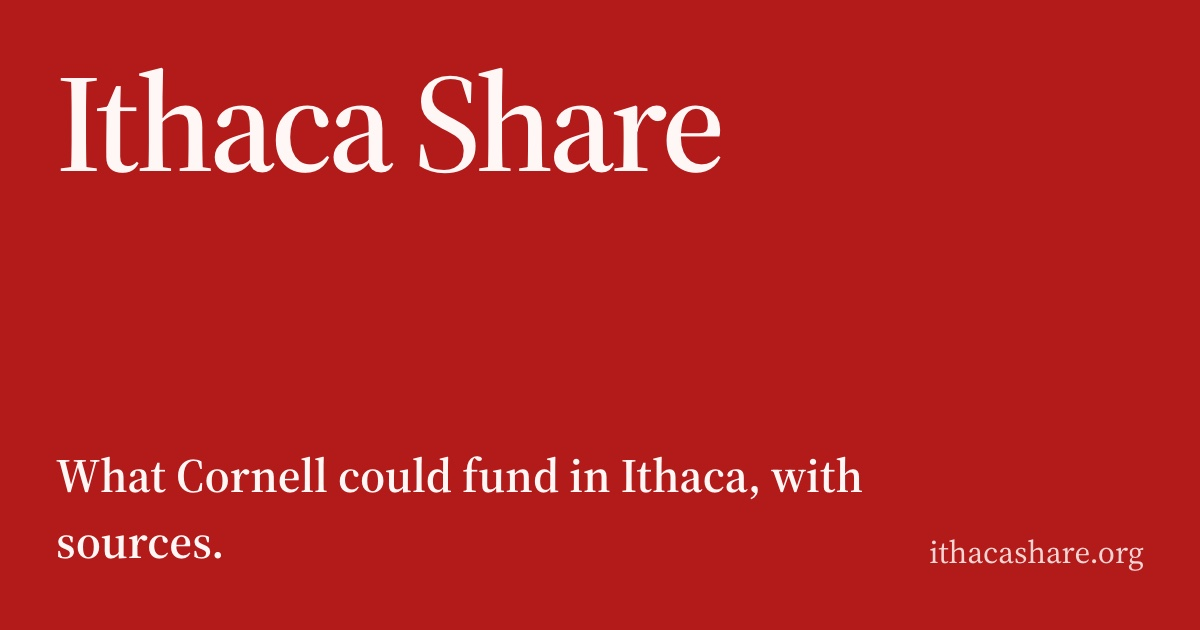
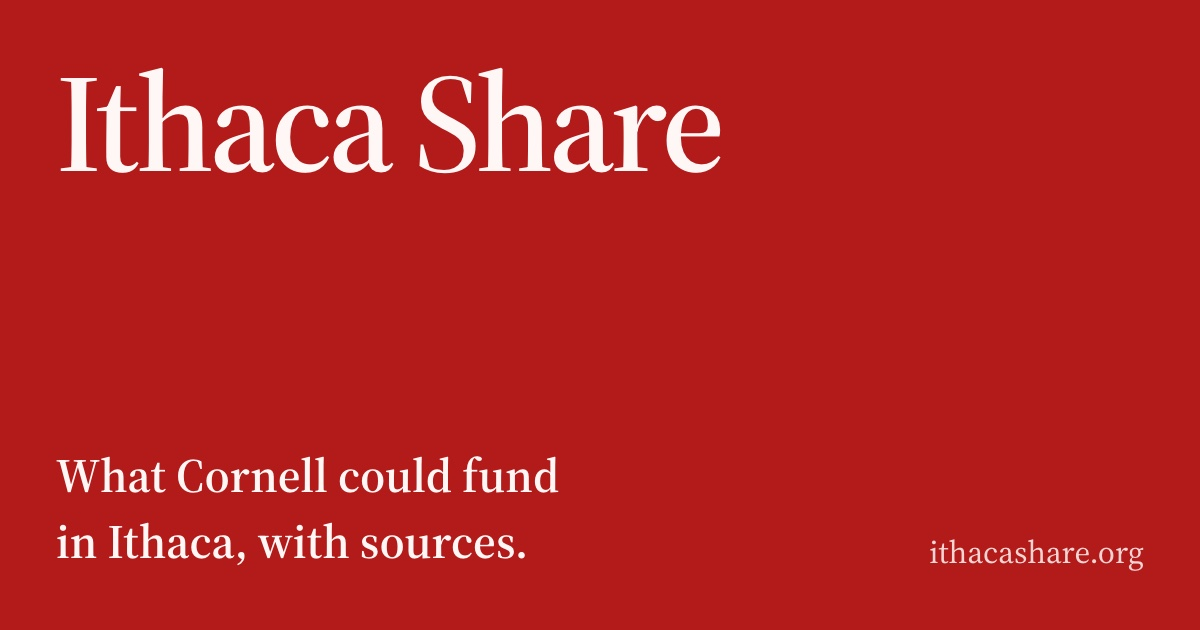
Balance headings, avoid orphans, keep amounts with their units

Changed region(s): [[0.0308, 0.8143, 0.4317, 0.9048], [0.4625, 0.7238, 0.74, 0.7841]]

diff --git a/public/wastewater/index.html b/public/wastewater/index.html
@@ -32,18 +32,18 @@
       <figure class="poster" style="--pay-ratio: sqrt(439000000 / 5125000)">
         <div>
           <h1>
-            <a href="https://statements.cornell.edu/2025/20251028-university-endowment.cfm">$439 million in a year.</a><br>
+            <a href="https://statements.cornell.edu/2025/20251028-university-endowment.cfm">$439&nbsp;million in a year.</a><br>
             <a href="https://www.ehs.cornell.edu/environmental-compliance/water-management/municipal-sanitary-sewer">No wastewater plant.</a>
           </h1>
-          <p class="poster-sub">Paid out by Cornell’s $11.8 billion endowment in fiscal 2025.</p>
+          <p class="poster-sub">Paid out by Cornell’s $11.8&nbsp;billion endowment in fiscal&nbsp;2025.</p>
         </div>
         <div class="poster-foot">
           <div class="poster-dot" aria-hidden="true"></div>
-          <p>This square, at the same scale, is the $5.1 million a year Cornell pays Ithaca’s city, town, and schools.</p>
+          <p>This square, at the same scale, is the $5.1&nbsp;million a year Cornell pays Ithaca’s city, town, and schools.</p>
         </div>
         <figcaption class="sr-only">
-          A red square for the $439 million Cornell’s endowment paid out in fiscal 2025, and a black
-          square about 1/86 of its area for the $5.1 million a year Cornell pays Ithaca’s city, town,
+          A red square for the $439&nbsp;million Cornell’s endowment paid out in fiscal&nbsp;2025, and a black
+          square about 1/86 of its area for the $5.1&nbsp;million a year Cornell pays Ithaca’s city, town,
           and schools.
         </figcaption>
       </figure>
@@ -70,13 +70,13 @@
         <p>
           The City of Ithaca, the Town of Ithaca, and the Town of Dryden own the plant. In 2025, local
           officials
-          <a class="link" href="https://ithacavoice.org/2025/08/local-officials-planned-to-invest-100m-into-ithacas-aging-wastewater-plant-one-meeting-with-state-regulators-may-have-doubled-that/" target="_blank" rel="noreferrer">planned to invest $100 million</a>
-          in it, and state regulators may double that. Engineering work approved in October 2026
-          supports about $37.8 million of planned improvements. The unfunded share is not published.
+          <a class="link" href="https://ithacavoice.org/2025/08/local-officials-planned-to-invest-100m-into-ithacas-aging-wastewater-plant-one-meeting-with-state-regulators-may-have-doubled-that/" target="_blank" rel="noreferrer">planned to invest $100&nbsp;million</a>
+          in it, and state regulators may double that. Engineering work approved in October&nbsp;2026
+          supports about $37.8&nbsp;million of planned improvements. The unfunded share is not published.
         </p>
         <p>
-          Common Council scheduled the capital plan for October 20, 2026, discussion for October 28, and
-          the budget vote for November 4.
+          Common Council scheduled the capital plan for October&nbsp;20, 2026, discussion for October&nbsp;28, and
+          the budget vote for November&nbsp;4.
         </p>
         <p>
           <a class="link" href="https://www.cityofithaca.org/675/IAWWTF-Treatment-Process">The city’s description of the plant.</a>
@@ -90,14 +90,14 @@
       <section>
         <h2>Already agreed</h2>
         <ul class="plain">
-          <li>City of Ithaca: $4 million a year, adjusted for inflation, through June 2039.</li>
+          <li>City of Ithaca: $4&nbsp;million a year, adjusted for inflation, through June&nbsp;2039.</li>
           <li>Ithaca City School District: $700,000 in 2025-26, rising to $874,000 by 2030-31.</li>
-          <li>Town of Ithaca: $425,000 a year through June 2034.</li>
+          <li>Town of Ithaca: $425,000 a year through June&nbsp;2034.</li>
         </ul>
-        <p>Together, about $5.1 million, counting the city’s base before inflation.</p>
+        <p>Together, about $5.1&nbsp;million, counting the city’s base before inflation.</p>
         <p>
           Cornell counts these within
-          <a class="link" href="https://news.cornell.edu/stories/2024/06/cornell-contribute-425k-annually-town-ithaca" target="_blank" rel="noreferrer">more than $30 million a year</a>
+          <a class="link" href="https://news.cornell.edu/stories/2024/06/cornell-contribute-425k-annually-town-ithaca" target="_blank" rel="noreferrer">more than $30&nbsp;million a year</a>
           it says goes to community priorities. That total also includes TCAT bus service, a housing
           fund, local nonprofits, and services on its own campus such as public safety and snow removal.
         </p>
@@ -110,9 +110,9 @@
             <tr><th>University</th><th>Local payment</th><th>Endowment</th><th>% of endowment</th></tr>
           </thead>
           <tbody>
-            <tr><td>Yale</td><td>Nearly $30 million (2026-27)</td><td>$44.1 billion</td><td>0.07%</td></tr>
-            <tr><td>Cornell</td><td>$5.1 million</td><td>$11.8 billion</td><td>0.04%</td></tr>
-            <tr><td>Princeton</td><td>$5.9 million (2025)</td><td>$36.4 billion</td><td>0.02%</td></tr>
+            <tr><td>Yale</td><td>Nearly $30&nbsp;million (2026-27)</td><td>$44.1&nbsp;billion</td><td>0.07%</td></tr>
+            <tr><td>Cornell</td><td>$5.1&nbsp;million</td><td>$11.8&nbsp;billion</td><td>0.04%</td></tr>
+            <tr><td>Princeton</td><td>$5.9&nbsp;million (2025)</td><td>$36.4&nbsp;billion</td><td>0.02%</td></tr>
           </tbody>
         </table>
       </section>
@@ -121,23 +121,23 @@
         <h2>Other ways to measure it</h2>
         <p>
           The endowment’s
-          <a class="link" href="https://statements.cornell.edu/2025/20251028-university-endowment.cfm" target="_blank" rel="noreferrer">$439 million payout</a>
-          in fiscal 2025 went to aid, research, salaries, and facilities. It is about 86 times the
-          $5.1 million.
+          <a class="link" href="https://statements.cornell.edu/2025/20251028-university-endowment.cfm" target="_blank" rel="noreferrer">$439&nbsp;million payout</a>
+          in fiscal&nbsp;2025 went to aid, research, salaries, and facilities. It is about 86 times the
+          $5.1&nbsp;million.
         </p>
         <p>
           Most of the endowment is restricted by donors. Cornell’s 2025 financial report lists
-          <a class="link" href="https://finance.cornell.edu/sites/default/files/cornell-financial-report-FY2025.pdf" target="_blank" rel="noreferrer">$1.8 billion of it with no donor restrictions</a>.
+          <a class="link" href="https://finance.cornell.edu/sites/default/files/cornell-financial-report-FY2025.pdf" target="_blank" rel="noreferrer">$1.8&nbsp;billion of it with no donor restrictions</a>.
         </p>
         <p>
-          Cornell’s tax-exempt property in the city was assessed at $2.7 billion on the 2022 roll. At
-          the 2023 city rate it would owe about $32.5 million a year. Because taxing it would lower the
+          Cornell’s tax-exempt property in the city was assessed at $2.7&nbsp;billion on the 2022 roll. At
+          the 2023 city rate it would owe about $32.5&nbsp;million a year. Because taxing it would lower the
           rate for everyone, the county’s assessment director put the
-          <a class="link" href="https://theithacan.org/50275/news/50275/" target="_blank" rel="noreferrer">realistic figure at about $15.5 million</a>.
+          <a class="link" href="https://theithacan.org/50275/news/50275/" target="_blank" rel="noreferrer">realistic figure at about $15.5&nbsp;million</a>.
         </p>
         <p>
-          Separately, Cornell closed a fundraising campaign in June 2026 at
-          <a class="link" href="https://news.cornell.edu/stories/2026/08/campaign-closes-record-support-students-and-research" target="_blank" rel="noreferrer">nearly $6.8 billion</a>.
+          Separately, Cornell closed a fundraising campaign in June&nbsp;2026 at
+          <a class="link" href="https://news.cornell.edu/stories/2026/08/campaign-closes-record-support-students-and-research" target="_blank" rel="noreferrer">nearly $6.8&nbsp;billion</a>.
         </p>
       </section>
 
@@ -146,9 +146,9 @@
         <dl class="qa">
           <dt>Doesn’t Cornell already pay for the sewer?</dt>
           <dd>
-            It paid <a class="link" href="https://news.cornell.edu/stories/2024/04/snapshot-highlights-universitys-role-local-economy" target="_blank" rel="noreferrer">$2.6 million in water, sewer, and stormwater fees</a>
-            in the year ending June 30, 2023. Those fees are separate from the
-            <a class="link" href="https://www.fingerlakes1.com/2026/10/12/ithaca-approves-elected-official-raises-cornell-permit-moratorium-and-infrastructure-funding/" target="_blank" rel="noreferrer">$37.8 million in planned improvements</a>.
+            It paid <a class="link" href="https://news.cornell.edu/stories/2024/04/snapshot-highlights-universitys-role-local-economy" target="_blank" rel="noreferrer">$2.6&nbsp;million in water, sewer, and stormwater fees</a>
+            in the year ending June&nbsp;30, 2023. Those fees are separate from the
+            <a class="link" href="https://www.fingerlakes1.com/2026/10/12/ithaca-approves-elected-official-raises-cornell-permit-moratorium-and-infrastructure-funding/" target="_blank" rel="noreferrer">$37.8&nbsp;million in planned improvements</a>.
           </dd>
 
           <dt>Would the money go into the city budget?</dt>
@@ -162,10 +162,10 @@
       <section>
         <h2>Method</h2>
         <p>
-          The square compares one year to one year: the endowment’s fiscal 2025 payout and Cornell’s
+          The square compares one year to one year: the endowment’s fiscal&nbsp;2025 payout and Cornell’s
           voluntary payments to the City of Ithaca, the Town of Ithaca, and the Ithaca City School
           District, using the city’s base before inflation. The black square’s area is to scale. Fees,
-          campus services, and Cornell’s other community spending are not in the $5.1 million.
+          campus services, and Cornell’s other community spending are not in the $5.1&nbsp;million.
         </p>
       </section>
 
@@ -174,55 +174,55 @@
           <summary><h2>Sources (19)</h2></summary>
         <ul class="plain sources">
           <li>
-            <p>Endowment of $11.8 billion at June 30, 2025</p>
-            <a class="link" href="https://statements.cornell.edu/2025/20251028-university-endowment.cfm" target="_blank" rel="noreferrer">Cornell University statement, October 28, 2025</a> · <a class="archived" href="https://web.archive.org/web/20261003115607/https://statements.cornell.edu/2025/20251028-university-endowment.cfm" target="_blank" rel="noreferrer">archived</a>
+            <p>Endowment of $11.8&nbsp;billion at June&nbsp;30, 2025</p>
+            <a class="link" href="https://statements.cornell.edu/2025/20251028-university-endowment.cfm" target="_blank" rel="noreferrer">Cornell University statement, October&nbsp;28, 2025</a> · <a class="archived" href="https://web.archive.org/web/20261003115607/https://statements.cornell.edu/2025/20251028-university-endowment.cfm" target="_blank" rel="noreferrer">archived</a>
           </li>
           <li>
-            <p>$4 million a year to the City of Ithaca, adjusted for inflation, through June 2039</p>
-            <a class="link" href="https://news.cornell.edu/stories/2023/10/cornell-reaches-landmark-agreement-city-ithaca" target="_blank" rel="noreferrer">Cornell Chronicle, October 13, 2023</a> · <a class="archived" href="https://web.archive.org/web/20261017010450/https://news.cornell.edu/stories/2023/10/cornell-reaches-landmark-agreement-city-ithaca" target="_blank" rel="noreferrer">archived</a>
+            <p>$4&nbsp;million a year to the City of Ithaca, adjusted for inflation, through June&nbsp;2039</p>
+            <a class="link" href="https://news.cornell.edu/stories/2023/10/cornell-reaches-landmark-agreement-city-ithaca" target="_blank" rel="noreferrer">Cornell Chronicle, October&nbsp;13, 2023</a> · <a class="archived" href="https://web.archive.org/web/20261017010450/https://news.cornell.edu/stories/2023/10/cornell-reaches-landmark-agreement-city-ithaca" target="_blank" rel="noreferrer">archived</a>
           </li>
           <li>
-            <p>$425,000 a year to the Town of Ithaca through June 2034</p>
-            <a class="link" href="https://news.cornell.edu/stories/2024/06/cornell-contribute-425k-annually-town-ithaca" target="_blank" rel="noreferrer">Cornell Chronicle, June 25, 2024</a> · <a class="archived" href="https://web.archive.org/web/20261017010630/https://news.cornell.edu/stories/2024/06/cornell-contribute-425k-annually-town-ithaca" target="_blank" rel="noreferrer">archived</a>
+            <p>$425,000 a year to the Town of Ithaca through June&nbsp;2034</p>
+            <a class="link" href="https://news.cornell.edu/stories/2024/06/cornell-contribute-425k-annually-town-ithaca" target="_blank" rel="noreferrer">Cornell Chronicle, June&nbsp;25, 2024</a> · <a class="archived" href="https://web.archive.org/web/20261017010630/https://news.cornell.edu/stories/2024/06/cornell-contribute-425k-annually-town-ithaca" target="_blank" rel="noreferrer">archived</a>
           </li>
           <li>
             <p>$700,000 to the Ithaca City School District in 2025-26, rising to $874,000 by 2030-31</p>
             <a class="link" href="https://news.cornell.edu/stories/2026/01/cornell-increase-contribution-ithaca-schools" target="_blank" rel="noreferrer">Cornell Chronicle, January 22, 2026</a> · <a class="archived" href="https://web.archive.org/web/20261017010755/https://news.cornell.edu/stories/2026/01/cornell-increase-contribution-ithaca-schools" target="_blank" rel="noreferrer">archived</a>
           </li>
           <li>
-            <p>Endowment contributed $439 million to operations in fiscal 2025</p>
-            <a class="link" href="https://statements.cornell.edu/2025/20251028-university-endowment.cfm" target="_blank" rel="noreferrer">Cornell University statement, October 28, 2025</a> · <a class="archived" href="https://web.archive.org/web/20261003115607/https://statements.cornell.edu/2025/20251028-university-endowment.cfm" target="_blank" rel="noreferrer">archived</a>
+            <p>Endowment contributed $439&nbsp;million to operations in fiscal&nbsp;2025</p>
+            <a class="link" href="https://statements.cornell.edu/2025/20251028-university-endowment.cfm" target="_blank" rel="noreferrer">Cornell University statement, October&nbsp;28, 2025</a> · <a class="archived" href="https://web.archive.org/web/20261003115607/https://statements.cornell.edu/2025/20251028-university-endowment.cfm" target="_blank" rel="noreferrer">archived</a>
           </li>
           <li>
-            <p>$1,825,491 thousand of endowment funds without donor restrictions (funds functioning as endowment), June 30, 2025, Note 12</p>
-            <a class="link" href="https://finance.cornell.edu/sites/default/files/cornell-financial-report-FY2025.pdf" target="_blank" rel="noreferrer">Cornell University Consolidated Financial Statements, fiscal 2025</a> · <a class="archived" href="https://web.archive.org/web/20261017012711/https://finance.cornell.edu/sites/default/files/cornell-financial-report-FY2025.pdf" target="_blank" rel="noreferrer">archived</a>
+            <p>$1,825,491&nbsp;thousand of endowment funds without donor restrictions (funds functioning as endowment), June&nbsp;30, 2025, Note 12</p>
+            <a class="link" href="https://finance.cornell.edu/sites/default/files/cornell-financial-report-FY2025.pdf" target="_blank" rel="noreferrer">Cornell University Consolidated Financial Statements, fiscal&nbsp;2025</a> · <a class="archived" href="https://web.archive.org/web/20261017012711/https://finance.cornell.edu/sites/default/files/cornell-financial-report-FY2025.pdf" target="_blank" rel="noreferrer">archived</a>
           </li>
           <li>
-            <p>Cornell dedicates more than $30 million a year to community priorities, including its voluntary contributions</p>
-            <a class="link" href="https://news.cornell.edu/stories/2024/06/cornell-contribute-425k-annually-town-ithaca" target="_blank" rel="noreferrer">Cornell Chronicle, June 25, 2024</a> · <a class="archived" href="https://web.archive.org/web/20261017010630/https://news.cornell.edu/stories/2024/06/cornell-contribute-425k-annually-town-ithaca" target="_blank" rel="noreferrer">archived</a>
+            <p>Cornell dedicates more than $30&nbsp;million a year to community priorities, including its voluntary contributions</p>
+            <a class="link" href="https://news.cornell.edu/stories/2024/06/cornell-contribute-425k-annually-town-ithaca" target="_blank" rel="noreferrer">Cornell Chronicle, June&nbsp;25, 2024</a> · <a class="archived" href="https://web.archive.org/web/20261017010630/https://news.cornell.edu/stories/2024/06/cornell-contribute-425k-annually-town-ithaca" target="_blank" rel="noreferrer">archived</a>
           </li>
           <li>
-            <p>$2.7 billion in tax-exempt property on the 2022 assessment roll; about $32.5 million at the 2023 rate, or about $15.5 million with the rate adjusted</p>
-            <a class="link" href="https://theithacan.org/50275/news/50275/" target="_blank" rel="noreferrer">The Ithacan, October 4, 2023</a> · <a class="archived" href="https://web.archive.org/web/20261017012836/https://theithacan.org/50275/news/50275/" target="_blank" rel="noreferrer">archived</a>
+            <p>$2.7&nbsp;billion in tax-exempt property on the 2022 assessment roll; about $32.5&nbsp;million at the 2023 rate, or about $15.5&nbsp;million with the rate adjusted</p>
+            <a class="link" href="https://theithacan.org/50275/news/50275/" target="_blank" rel="noreferrer">The Ithacan, October&nbsp;4, 2023</a> · <a class="archived" href="https://web.archive.org/web/20261017012836/https://theithacan.org/50275/news/50275/" target="_blank" rel="noreferrer">archived</a>
           </li>
           <li>
-            <p>Fundraising campaign closed at nearly $6.8 billion</p>
+            <p>Fundraising campaign closed at nearly $6.8&nbsp;billion</p>
             <a class="link" href="https://news.cornell.edu/stories/2026/08/campaign-closes-record-support-students-and-research" target="_blank" rel="noreferrer">Cornell Chronicle, August 27, 2026</a> · <a class="archived" href="https://web.archive.org/web/20261017010908/https://news.cornell.edu/stories/2026/08/campaign-closes-record-support-students-and-research" target="_blank" rel="noreferrer">archived</a>
           </li>
           <li>
-            <p>Yale’s voluntary payment to New Haven is nearly $30 million in fiscal 2027, the last year of its 2021 plan</p>
+            <p>Yale’s voluntary payment to New Haven is nearly $30&nbsp;million in fiscal&nbsp;2027, the last year of its 2021 plan</p>
             <a class="link" href="https://news.yale.edu/2026/03/06/yale-and-new-haven-announce-new-commitment-and-plan-support-city-finances-advance-shared" target="_blank" rel="noreferrer">Yale News, March 6, 2026</a> · <a class="archived" href="https://web.archive.org/web/20261017011021/https://news.yale.edu/2026/03/06/yale-and-new-haven-announce-new-commitment-and-plan-support-city-finances-advance-shared" target="_blank" rel="noreferrer">archived</a>
           </li>
           <li>
-            <p>Yale endowment of $44.1 billion at June 30, 2025</p>
-            <a class="link" href="https://news.yale.edu/2025/10/24/yale-reports-investment-return-fiscal-2025" target="_blank" rel="noreferrer">Yale News, October 24, 2025</a> · <a class="archived" href="https://web.archive.org/web/20261017013013/https://news.yale.edu/2025/10/24/yale-reports-investment-return-fiscal-2025" target="_blank" rel="noreferrer">archived</a>
+            <p>Yale endowment of $44.1&nbsp;billion at June&nbsp;30, 2025</p>
+            <a class="link" href="https://news.yale.edu/2025/10/24/yale-reports-investment-return-fiscal-2025" target="_blank" rel="noreferrer">Yale News, October&nbsp;24, 2025</a> · <a class="archived" href="https://web.archive.org/web/20261017013013/https://news.yale.edu/2025/10/24/yale-reports-investment-return-fiscal-2025" target="_blank" rel="noreferrer">archived</a>
           </li>
           <li>
-            <p>Princeton endowment of $36.4 billion at June 30, 2025</p>
+            <p>Princeton endowment of $36.4&nbsp;billion at June&nbsp;30, 2025</p>
             <a class="link" href="https://paw.princeton.edu/article/princeton-endowment-earns-11-return-reaches-364-billion" target="_blank" rel="noreferrer">Princeton Alumni Weekly</a> · <a class="archived" href="https://web.archive.org/web/20261017013209/https://paw.princeton.edu/article/princeton-endowment-earns-11-return-reaches-364-billion" target="_blank" rel="noreferrer">archived</a>
           </li>
           <li>
-            <p>Princeton paid the Municipality of Princeton $5.9 million in 2025</p>
+            <p>Princeton paid the Municipality of Princeton $5.9&nbsp;million in 2025</p>
             <a class="link" href="https://www.princeton.edu/news/2026/03/26/university-contributions-princeton-municipality-2025-summary" target="_blank" rel="noreferrer">Princeton University, March 26, 2026</a> · <a class="archived" href="https://web.archive.org/web/20261002124916/https://www.princeton.edu/news/2026/03/26/university-contributions-princeton-municipality-2025-summary" target="_blank" rel="noreferrer">archived</a>
           </li>
           <li>
@@ -230,20 +230,20 @@
             <a class="link" href="https://www.ehs.cornell.edu/environmental-compliance/water-management/municipal-sanitary-sewer" target="_blank" rel="noreferrer">Cornell Environment, Health and Safety</a> · <a class="archived" href="https://web.archive.org/web/20260612084058/https://www.ehs.cornell.edu/environmental-compliance/water-management/municipal-sanitary-sewer" target="_blank" rel="noreferrer">archived</a>
           </li>
           <li>
-            <p>The City of Ithaca, the Town of Ithaca, and the Town of Dryden own the wastewater plant; officials planned to invest $100 million, and state regulators may double that</p>
+            <p>The City of Ithaca, the Town of Ithaca, and the Town of Dryden own the wastewater plant; officials planned to invest $100&nbsp;million, and state regulators may double that</p>
             <a class="link" href="https://ithacavoice.org/2025/08/local-officials-planned-to-invest-100m-into-ithacas-aging-wastewater-plant-one-meeting-with-state-regulators-may-have-doubled-that/" target="_blank" rel="noreferrer">The Ithaca Voice, August 18, 2025</a> · <a class="archived" href="https://web.archive.org/web/20261017010158/https://ithacavoice.org/2025/08/local-officials-planned-to-invest-100m-into-ithacas-aging-wastewater-plant-one-meeting-with-state-regulators-may-have-doubled-that/" target="_blank" rel="noreferrer">archived</a>
           </li>
           <li>
-            <p>Engineering work approved in October 2026 supports about $37.8 million in planned plant improvements</p>
-            <a class="link" href="https://www.fingerlakes1.com/2026/10/12/ithaca-approves-elected-official-raises-cornell-permit-moratorium-and-infrastructure-funding/" target="_blank" rel="noreferrer">Finger Lakes 1, October 12, 2026</a> · <a class="archived" href="https://web.archive.org/web/20261017011450/https://www.fingerlakes1.com/2026/10/12/ithaca-approves-elected-official-raises-cornell-permit-moratorium-and-infrastructure-funding/" target="_blank" rel="noreferrer">archived</a>
+            <p>Engineering work approved in October&nbsp;2026 supports about $37.8&nbsp;million in planned plant improvements</p>
+            <a class="link" href="https://www.fingerlakes1.com/2026/10/12/ithaca-approves-elected-official-raises-cornell-permit-moratorium-and-infrastructure-funding/" target="_blank" rel="noreferrer">Finger Lakes 1, October&nbsp;12, 2026</a> · <a class="archived" href="https://web.archive.org/web/20261017011450/https://www.fingerlakes1.com/2026/10/12/ithaca-approves-elected-official-raises-cornell-permit-moratorium-and-infrastructure-funding/" target="_blank" rel="noreferrer">archived</a>
           </li>
           <li>
-            <p>$2.6 million in water, sewer, and stormwater fees, fiscal year ending June 30, 2023</p>
+            <p>$2.6&nbsp;million in water, sewer, and stormwater fees, fiscal year ending June&nbsp;30, 2023</p>
             <a class="link" href="https://news.cornell.edu/stories/2024/04/snapshot-highlights-universitys-role-local-economy" target="_blank" rel="noreferrer">Cornell Chronicle, April 3, 2024</a> · <a class="archived" href="https://web.archive.org/web/20261017010507/https://news.cornell.edu/stories/2024/04/snapshot-highlights-universitys-role-local-economy" target="_blank" rel="noreferrer">archived</a>
           </li>
           <li>
-            <p>Capital plan October 20, 2026, council discussion October 28, budget vote November 4</p>
-            <a class="link" href="https://www.ithaca.com/news/ithaca-city-officials-unveil-proposed-2027-budget-close-8m-deficit-under-state-tax-cap/article_6fb6fc7a-166f-44af-a2ed-c47c57e71c59.html" target="_blank" rel="noreferrer">Ithaca Times, October 12, 2026</a> · <a class="archived" href="https://web.archive.org/web/20261017011618/https://www.ithaca.com/news/ithaca-city-officials-unveil-proposed-2027-budget-close-8m-deficit-under-state-tax-cap/article_6fb6fc7a-166f-44af-a2ed-c47c57e71c59.html" target="_blank" rel="noreferrer">archived</a>
+            <p>Capital plan October&nbsp;20, 2026, council discussion October&nbsp;28, budget vote November&nbsp;4</p>
+            <a class="link" href="https://www.ithaca.com/news/ithaca-city-officials-unveil-proposed-2027-budget-close-8m-deficit-under-state-tax-cap/article_6fb6fc7a-166f-44af-a2ed-c47c57e71c59.html" target="_blank" rel="noreferrer">Ithaca Times, October&nbsp;12, 2026</a> · <a class="archived" href="https://web.archive.org/web/20261017011618/https://www.ithaca.com/news/ithaca-city-officials-unveil-proposed-2027-budget-close-8m-deficit-under-state-tax-cap/article_6fb6fc7a-166f-44af-a2ed-c47c57e71c59.html" target="_blank" rel="noreferrer">archived</a>
           </li>
           <li>
             <p>How the wastewater plant works</p>
@@ -255,7 +255,7 @@
 
       <footer>
         <a href="/">ithacashare.org</a>
-        <span>Updated October 16, 2026.</span>
+        <span>Updated October&nbsp;16, 2026.</span>
         <span>Independent community page. Not affiliated with Cornell University.</span>
         <span><a href="mailto:hello@ithacashare.org">hello@ithacashare.org</a></span>
         <span><a href="https://github.com/ithacashare/IthacaShare.org">Source and change history</a> · <a href="https://github.com/ithacashare/IthacaShare.org/issues/new?template=correction.yml">Suggest a correction</a> · <a href="https://creativecommons.org/licenses/by/4.0/">CC BY 4.0</a></span>

diff --git a/public/survivor-services/index.html b/public/survivor-services/index.html
@@ -77,7 +77,7 @@
       <section>
         <h2>What Cornell has announced</h2>
         <p>
-          On October 13, 2026, Cornell
+          On October&nbsp;13, 2026, Cornell
           <a class="link" href="https://statements.cornell.edu/2026/20261013-immediate-measures.cfm" target="_blank" rel="noreferrer">announced added victim advocate support on campus</a>.
           An outside review led by former U.S. Deputy Attorney General Sally Yates will look at
           “all related Cornell policies and practices.”
@@ -101,7 +101,7 @@
 
       <footer>
         <a href="/">ithacashare.org</a>
-        <span>Updated October 16, 2026.</span>
+        <span>Updated October&nbsp;16, 2026.</span>
         <span>Independent community page. Not affiliated with Cornell University.</span>
         <span><a href="mailto:hello@ithacashare.org">hello@ithacashare.org</a></span>
         <span><a href="https://github.com/ithacashare/IthacaShare.org">Source and change history</a> · <a href="https://github.com/ithacashare/IthacaShare.org/issues/new?template=correction.yml">Suggest a correction</a> · <a href="https://creativecommons.org/licenses/by/4.0/">CC BY 4.0</a></span>

diff --git a/public/index.html b/public/index.html
@@ -50,7 +50,7 @@
       </ul>
 
       <footer>
-        <span>Updated October 16, 2026.</span>
+        <span>Updated October&nbsp;16, 2026.</span>
         <span>Independent community page. Not affiliated with Cornell University.</span>
         <span><a href="mailto:hello@ithacashare.org">hello@ithacashare.org</a></span>
         <span><a href="https://github.com/ithacashare/IthacaShare.org">Source and change history</a> · <a href="https://github.com/ithacashare/IthacaShare.org/issues/new?template=correction.yml">Suggest a correction</a> · <a href="https://creativecommons.org/licenses/by/4.0/">CC BY 4.0</a></span>

diff --git a/og/home.html b/og/home.html
@@ -8,7 +8,7 @@
     font-weight: 400 700;
     src: url("../public/fonts/source-serif-4-latin.woff2") format("woff2");
   }
-  * { box-sizing: border-box; margin: 0; }
+  * { box-sizing: border-box; margin: 0; text-wrap: balance; }
   html, body { width: 1200px; height: 630px; overflow: hidden; }
   body {
     background: #b31b1b;

diff --git a/og/survivor-services.html b/og/survivor-services.html
@@ -8,7 +8,7 @@
     font-weight: 400 700;
     src: url("../public/fonts/source-serif-4-latin.woff2") format("woff2");
   }
-  * { box-sizing: border-box; margin: 0; }
+  * { box-sizing: border-box; margin: 0; text-wrap: balance; }
   html, body { width: 1200px; height: 630px; overflow: hidden; }
   body {
     background: #1a1814;

diff --git a/og/wastewater.html b/og/wastewater.html
@@ -8,7 +8,7 @@
     font-weight: 400 700;
     src: url("../public/fonts/source-serif-4-latin.woff2") format("woff2");
   }
-  * { box-sizing: border-box; margin: 0; }
+  * { box-sizing: border-box; margin: 0; text-wrap: balance; }
   html, body { width: 1200px; height: 630px; overflow: hidden; }
   body {
     background: #b31b1b;

diff --git a/public/styles.css b/public/styles.css
@@ -418,3 +418,20 @@ th:last-child {
   margin: 0.35rem 0 0;
   color: var(--muted);
 }
+
+/* No single-word last lines: balance headings, avoid orphans in text. */
+h1,
+h2,
+dt,
+summary {
+  text-wrap: balance;
+}
+
+p,
+li,
+dd,
+td,
+figcaption,
+.poster-foot p {
+  text-wrap: pretty;
+}
